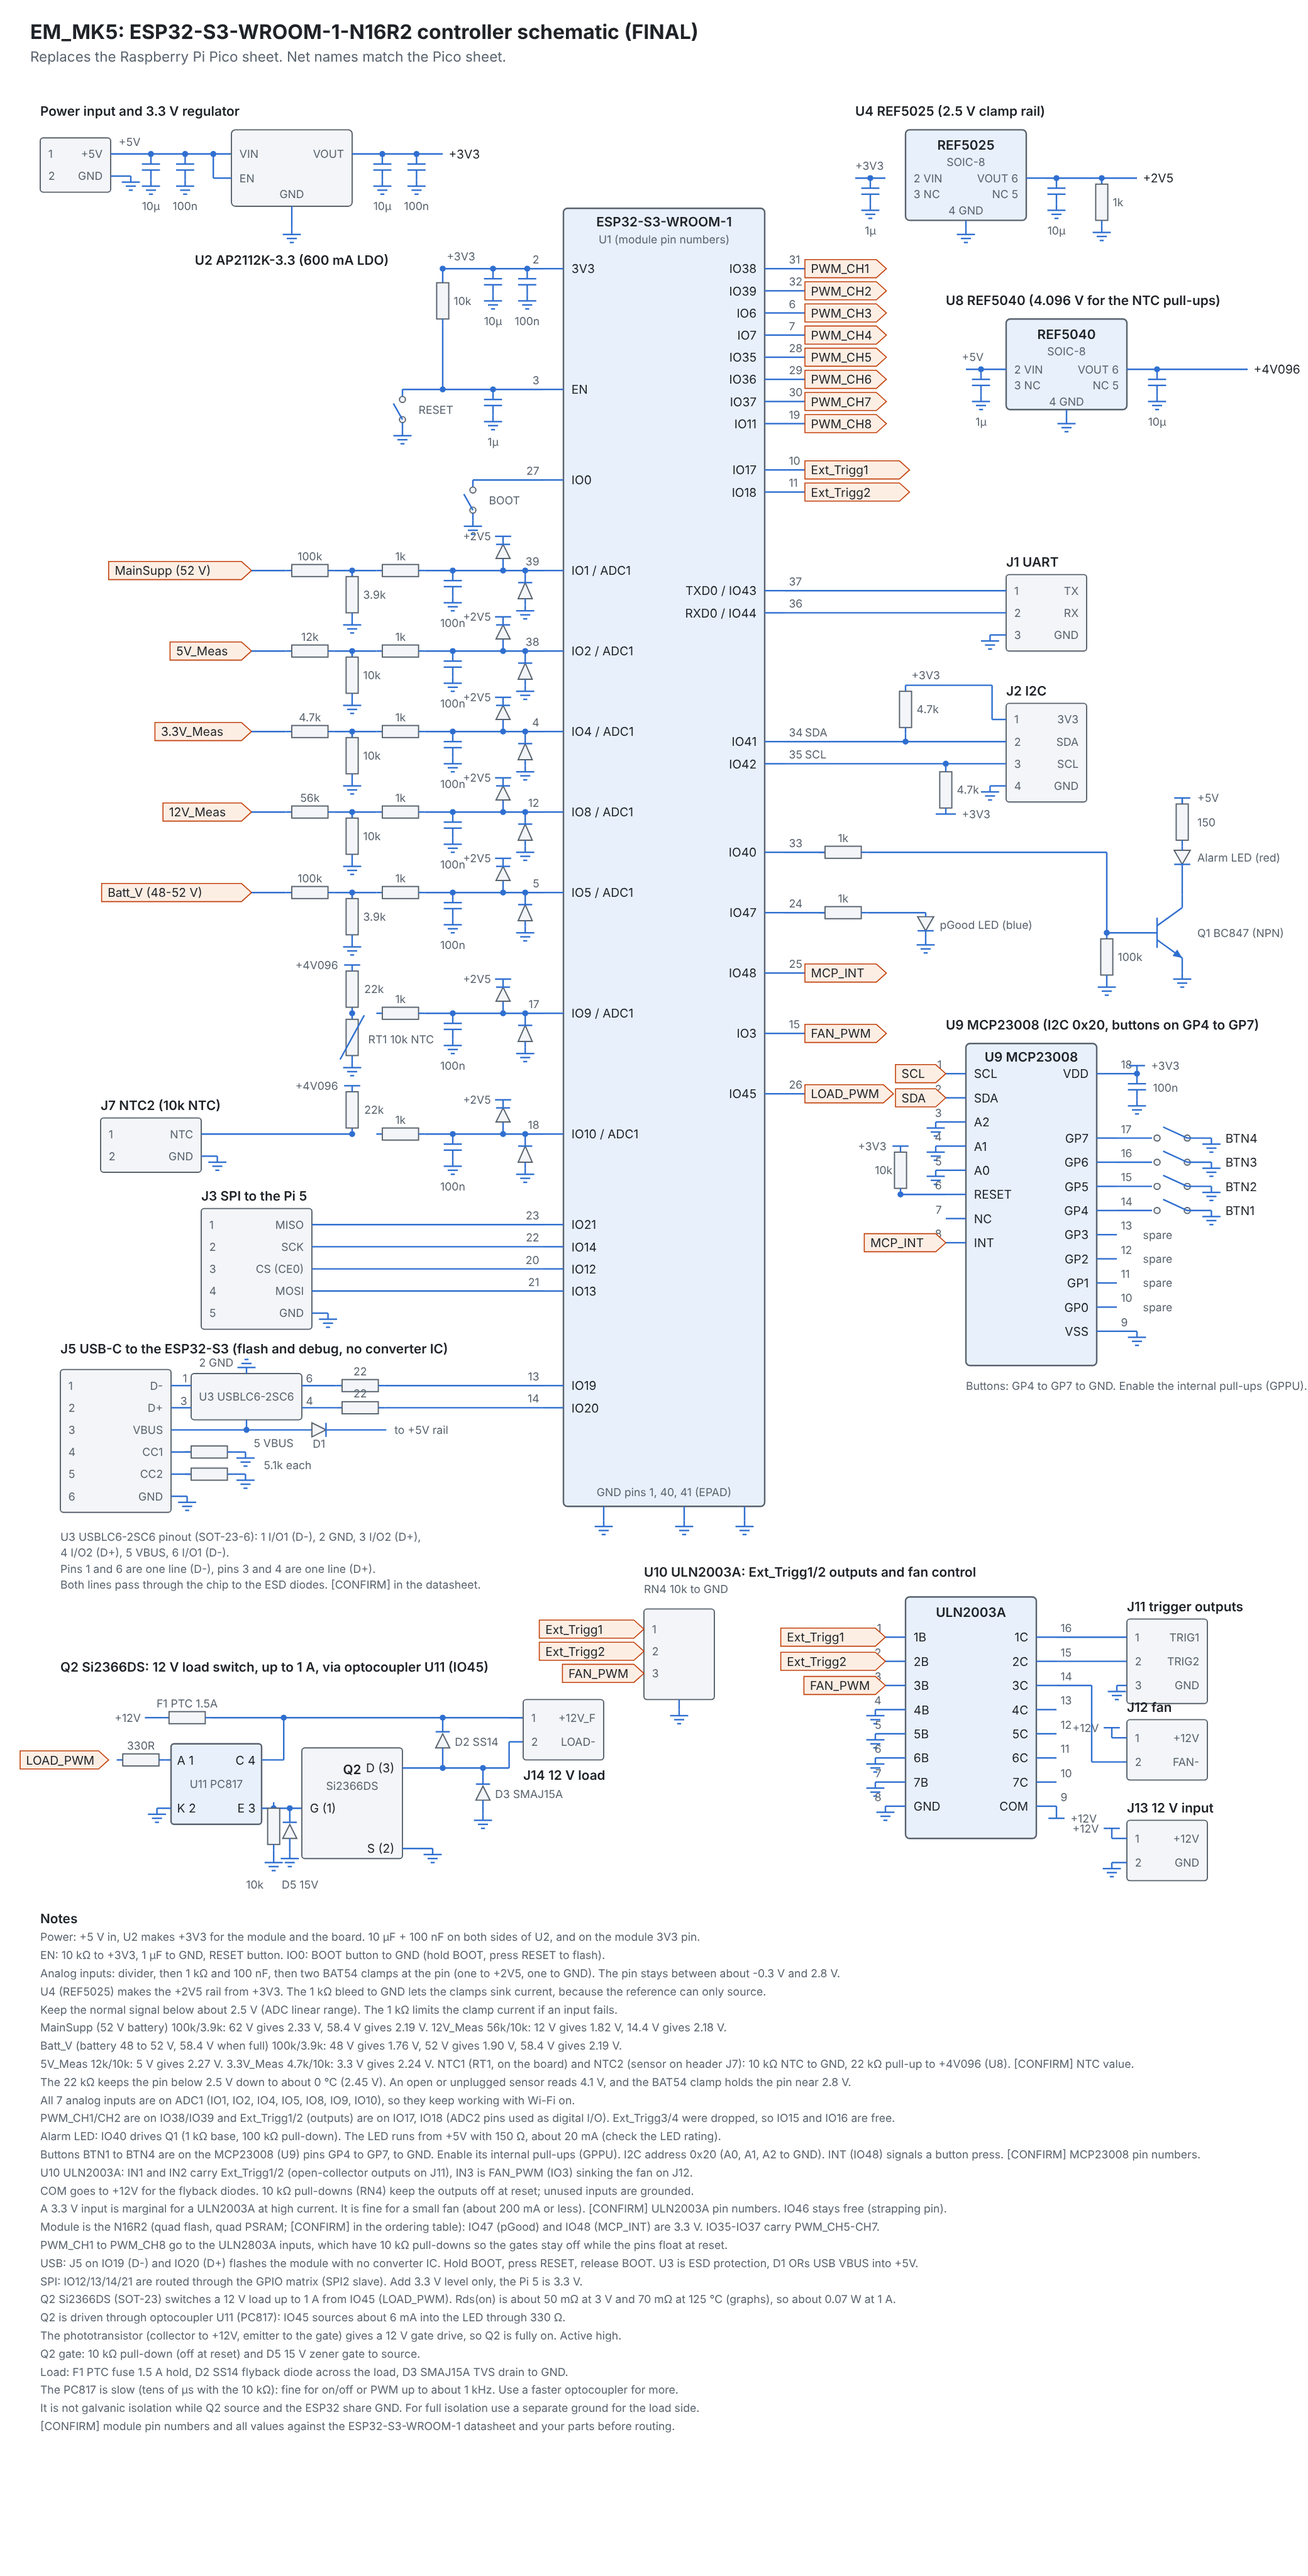
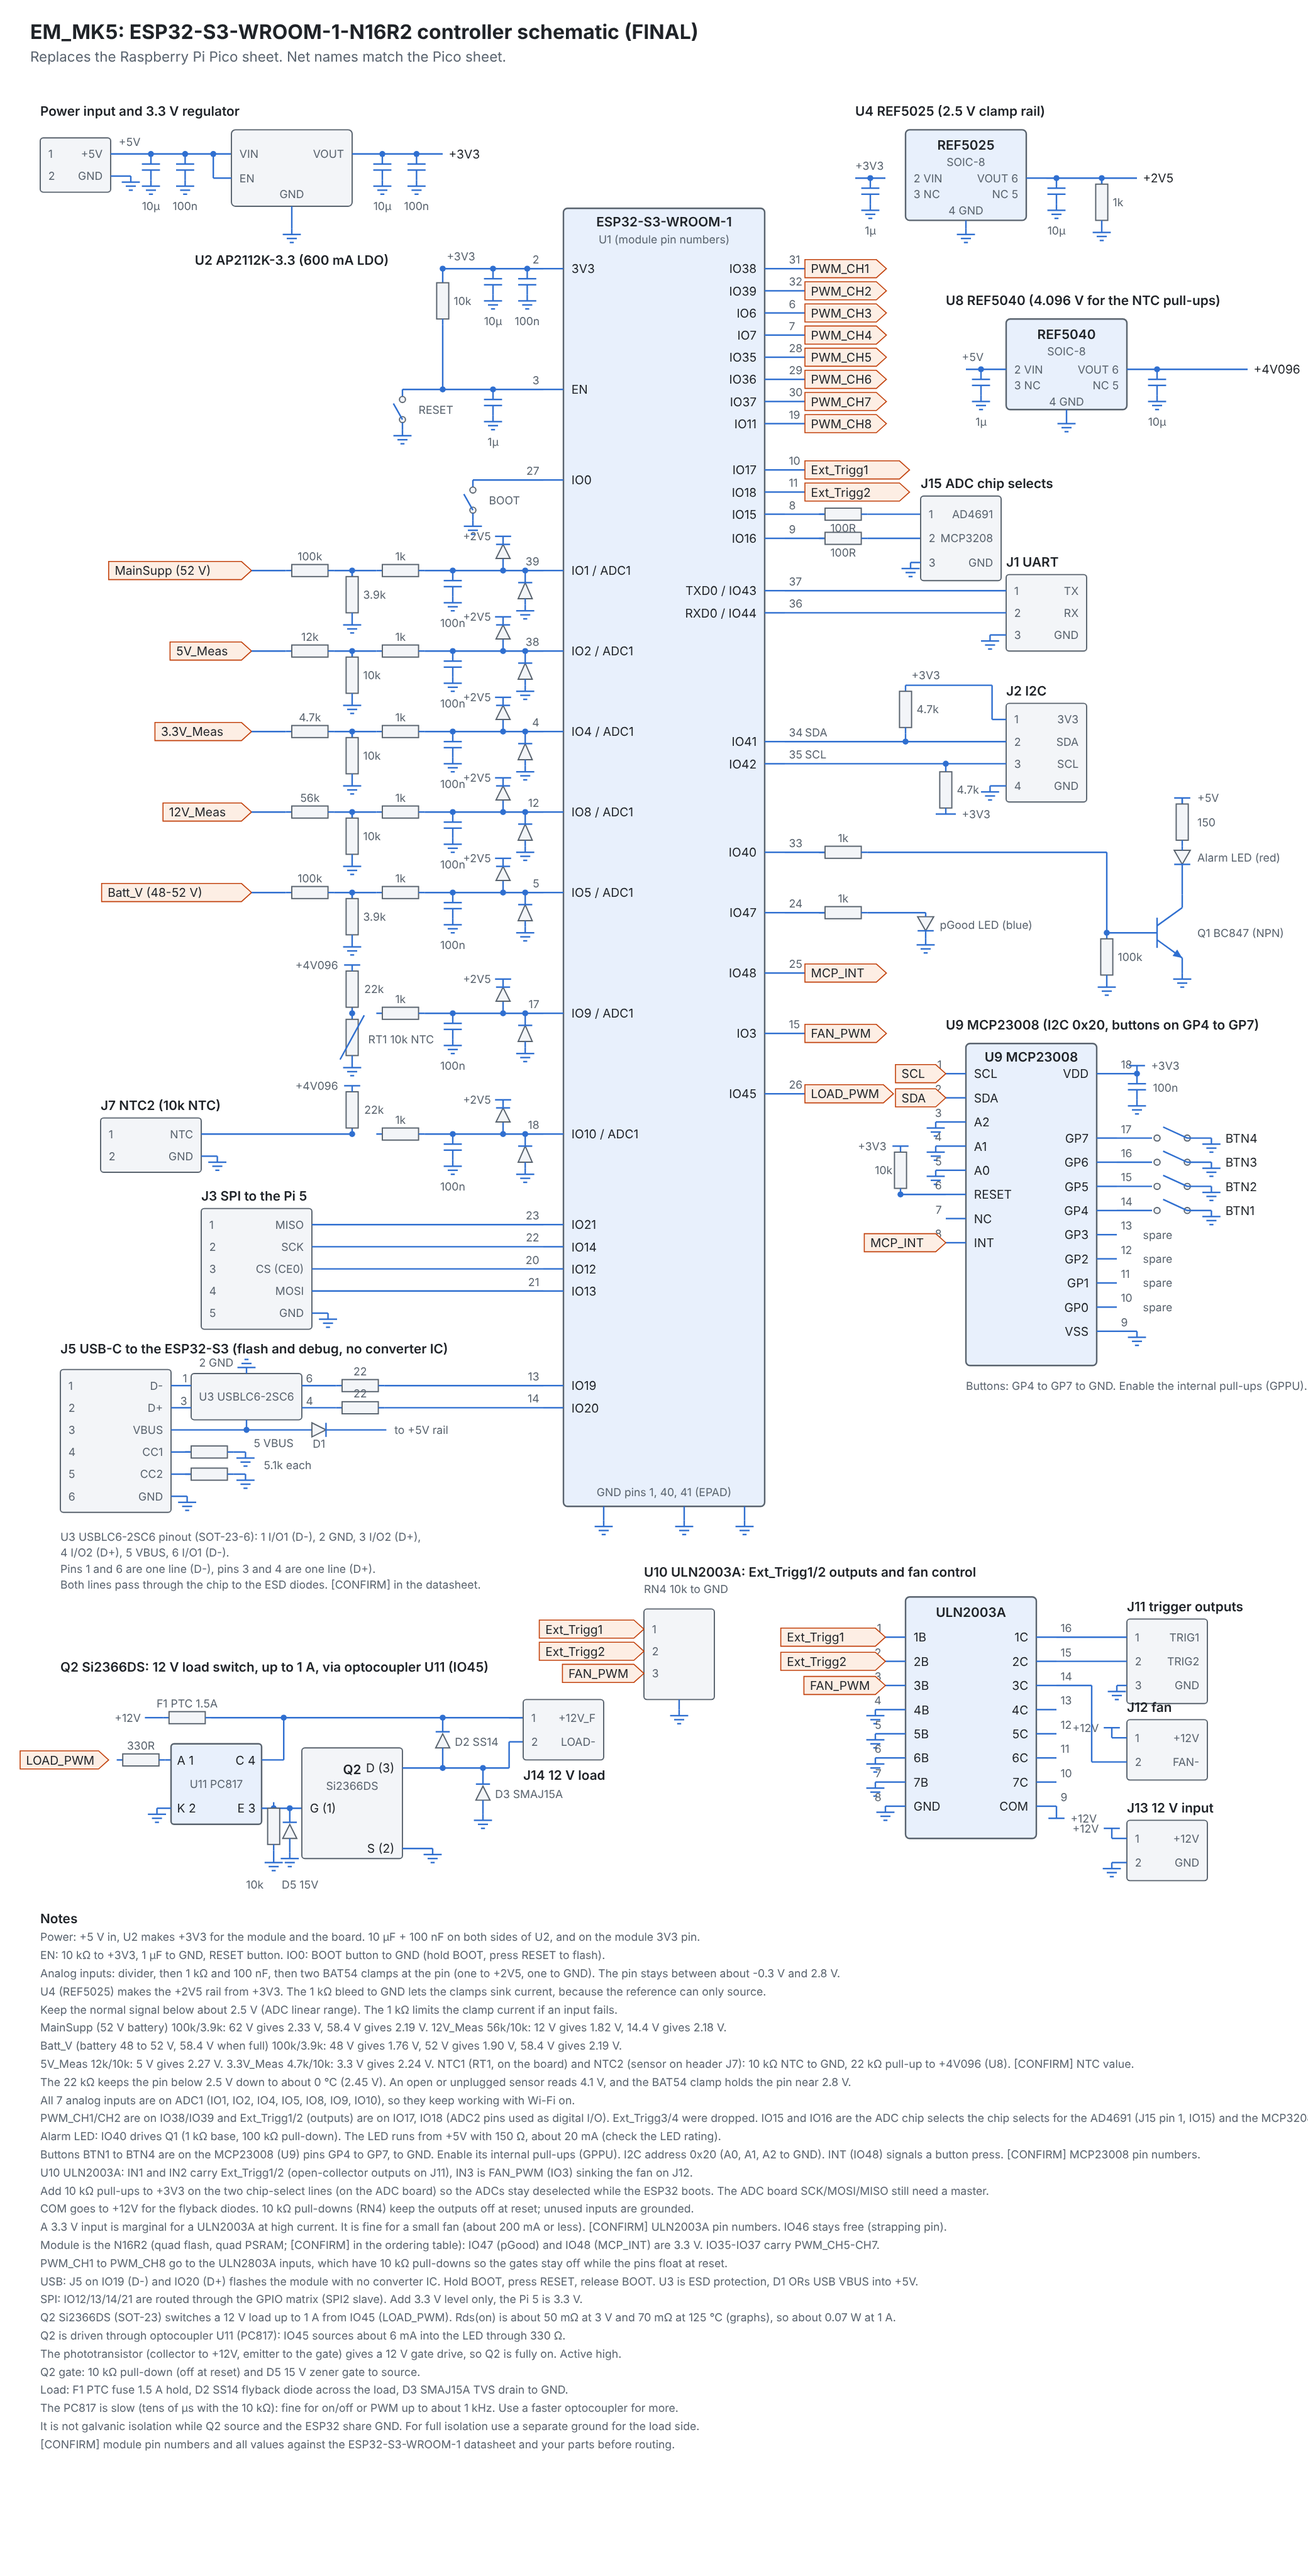
Final schematic: IO15/IO16 as ADC chip selects on J15
Claude-Session: https://claude.ai/code/session_0174MNEmDaTV8DPD2QnVHENo

Changed region(s): [[0.0312, 0.8438, 0.7188, 0.9688], [0.6875, 0.1875, 0.7812, 0.2188], [0.625, 0.1875, 0.6562, 0.2188]]

diff --git a/ESP32_S3_schematic_final.html b/ESP32_S3_schematic_final.html
@@ -712,6 +712,39 @@ svg{width:100%;max-width:1300px;height:auto;display:block;margin:0 auto}
 <line class="w" x1="780" y1="412" x2="800" y2="412"/>
 <polygon class="p" points="800,403 894,403 904,412 894,421 800,421"/>
 <text class="pt" x="806" y="412" text-anchor="start" dominant-baseline="central">Ext_Trigg2</text>
+<line class="w" x1="760" y1="434" x2="780" y2="434"/>
+<text class="t" x="752" y="434" text-anchor="end" dominant-baseline="central">IO15</text>
+<text class="s" x="784" y="425" text-anchor="start" dominant-baseline="central">8</text>
+<line class="w" x1="780" y1="434" x2="820" y2="434"/>
+<line class="w" x1="814" y1="434" x2="820" y2="434"/>
+<rect class="c" x="820" y="428" width="36" height="12"/>
+<line class="w" x1="856" y1="434" x2="862" y2="434"/>
+<text class="s" x="838" y="420" text-anchor="middle" dominant-baseline="central"></text>
+<text class="s" x="838" y="448" text-anchor="middle" dominant-baseline="central">100R</text>
+<line class="w" x1="862" y1="434" x2="915" y2="434"/>
+<line class="w" x1="760" y1="458" x2="780" y2="458"/>
+<text class="t" x="752" y="458" text-anchor="end" dominant-baseline="central">IO16</text>
+<text class="s" x="784" y="449" text-anchor="start" dominant-baseline="central">9</text>
+<line class="w" x1="780" y1="458" x2="820" y2="458"/>
+<line class="w" x1="814" y1="458" x2="820" y2="458"/>
+<rect class="c" x="820" y="452" width="36" height="12"/>
+<line class="w" x1="856" y1="458" x2="862" y2="458"/>
+<text class="s" x="838" y="444" text-anchor="middle" dominant-baseline="central"></text>
+<text class="s" x="838" y="472" text-anchor="middle" dominant-baseline="central">100R</text>
+<line class="w" x1="862" y1="458" x2="915" y2="458"/>
+<rect class="c" x="915" y="416" width="80" height="84" rx="3"/>
+<text class="th" x="915" y="404" text-anchor="start" dominant-baseline="central">J15 ADC chip selects</text>
+<text class="s" x="923" y="434" text-anchor="start" dominant-baseline="central">1</text>
+<text class="s" x="987" y="434" text-anchor="end" dominant-baseline="central">AD4691</text>
+<text class="s" x="923" y="458" text-anchor="start" dominant-baseline="central">2</text>
+<text class="s" x="987" y="458" text-anchor="end" dominant-baseline="central">MCP3208</text>
+<text class="s" x="923" y="482" text-anchor="start" dominant-baseline="central">3</text>
+<text class="s" x="987" y="482" text-anchor="end" dominant-baseline="central">GND</text>
+<line class="w" x1="915" y1="482" x2="905" y2="482"/>
+<line class="w" x1="905" y1="482" x2="905" y2="488"/>
+<line class="w" x1="896" y1="488" x2="914" y2="488"/>
+<line class="w" x1="900" y1="492" x2="910" y2="492"/>
+<line class="w" x1="903" y1="496" x2="907" y2="496"/>
 <rect class="c" x="1000" y="494" width="80" height="76" rx="3"/>
 <text class="th" x="1000" y="482" text-anchor="start" dominant-baseline="central">J1 UART</text>
 <text class="s" x="1008" y="510" text-anchor="start" dominant-baseline="central">1</text>
@@ -1340,21 +1373,22 @@ svg{width:100%;max-width:1300px;height:auto;display:block;margin:0 auto}
 <text class="s" x="40" y="1974" text-anchor="start" dominant-baseline="central">5V_Meas 12k/10k: 5 V gives 2.27 V. 3.3V_Meas 4.7k/10k: 3.3 V gives 2.24 V. NTC1 (RT1, on the board) and NTC2 (sensor on header J7): 10 kΩ NTC to GND, 22 kΩ pull-up to +4V096 (U8). [CONFIRM] NTC value.</text>
 <text class="s" x="40" y="1992" text-anchor="start" dominant-baseline="central">The 22 kΩ keeps the pin below 2.5 V down to about 0 °C (2.45 V). An open or unplugged sensor reads 4.1 V, and the BAT54 clamp holds the pin near 2.8 V.</text>
 <text class="s" x="40" y="2010" text-anchor="start" dominant-baseline="central">All 7 analog inputs are on ADC1 (IO1, IO2, IO4, IO5, IO8, IO9, IO10), so they keep working with Wi-Fi on.</text>
-<text class="s" x="40" y="2028" text-anchor="start" dominant-baseline="central">PWM_CH1/CH2 are on IO38/IO39 and Ext_Trigg1/2 (outputs) are on IO17, IO18 (ADC2 pins used as digital I/O). Ext_Trigg3/4 were dropped, so IO15 and IO16 are free.</text>
+<text class="s" x="40" y="2028" text-anchor="start" dominant-baseline="central">PWM_CH1/CH2 are on IO38/IO39 and Ext_Trigg1/2 (outputs) are on IO17, IO18 (ADC2 pins used as digital I/O). Ext_Trigg3/4 were dropped. IO15 and IO16 are the ADC chip selects the chip selects for the AD4691 (J15 pin 1, IO15) and the MCP3208 (J15 pin 2, IO16), 100 Ω in series.</text>
 <text class="s" x="40" y="2046" text-anchor="start" dominant-baseline="central">Alarm LED: IO40 drives Q1 (1 kΩ base, 100 kΩ pull-down). The LED runs from +5V with 150 Ω, about 20 mA (check the LED rating).</text>
 <text class="s" x="40" y="2064" text-anchor="start" dominant-baseline="central">Buttons BTN1 to BTN4 are on the MCP23008 (U9) pins GP4 to GP7, to GND. Enable its internal pull-ups (GPPU). I2C address 0x20 (A0, A1, A2 to GND). INT (IO48) signals a button press. [CONFIRM] MCP23008 pin numbers.</text>
 <text class="s" x="40" y="2082" text-anchor="start" dominant-baseline="central">U10 ULN2003A: IN1 and IN2 carry Ext_Trigg1/2 (open-collector outputs on J11), IN3 is FAN_PWM (IO3) sinking the fan on J12.</text>
-<text class="s" x="40" y="2100" text-anchor="start" dominant-baseline="central">COM goes to +12V for the flyback diodes. 10 kΩ pull-downs (RN4) keep the outputs off at reset; unused inputs are grounded.</text>
-<text class="s" x="40" y="2118" text-anchor="start" dominant-baseline="central">A 3.3 V input is marginal for a ULN2003A at high current. It is fine for a small fan (about 200 mA or less). [CONFIRM] ULN2003A pin numbers. IO46 stays free (strapping pin).</text>
-<text class="s" x="40" y="2136" text-anchor="start" dominant-baseline="central">Module is the N16R2 (quad flash, quad PSRAM; [CONFIRM] in the ordering table): IO47 (pGood) and IO48 (MCP_INT) are 3.3 V. IO35-IO37 carry PWM_CH5-CH7.</text>
-<text class="s" x="40" y="2154" text-anchor="start" dominant-baseline="central">PWM_CH1 to PWM_CH8 go to the ULN2803A inputs, which have 10 kΩ pull-downs so the gates stay off while the pins float at reset.</text>
-<text class="s" x="40" y="2172" text-anchor="start" dominant-baseline="central">USB: J5 on IO19 (D-) and IO20 (D+) flashes the module with no converter IC. Hold BOOT, press RESET, release BOOT. U3 is ESD protection, D1 ORs USB VBUS into +5V.</text>
-<text class="s" x="40" y="2190" text-anchor="start" dominant-baseline="central">SPI: IO12/13/14/21 are routed through the GPIO matrix (SPI2 slave). Add 3.3 V level only, the Pi 5 is 3.3 V.</text>
-<text class="s" x="40" y="2208" text-anchor="start" dominant-baseline="central">Q2 Si2366DS (SOT-23) switches a 12 V load up to 1 A from IO45 (LOAD_PWM). Rds(on) is about 50 mΩ at 3 V and 70 mΩ at 125 °C (graphs), so about 0.07 W at 1 A.</text>
-<text class="s" x="40" y="2226" text-anchor="start" dominant-baseline="central">Q2 is driven through optocoupler U11 (PC817): IO45 sources about 6 mA into the LED through 330 Ω.</text>
-<text class="s" x="40" y="2244" text-anchor="start" dominant-baseline="central">The phototransistor (collector to +12V, emitter to the gate) gives a 12 V gate drive, so Q2 is fully on. Active high.</text>
-<text class="s" x="40" y="2262" text-anchor="start" dominant-baseline="central">Q2 gate: 10 kΩ pull-down (off at reset) and D5 15 V zener gate to source.</text>
-<text class="s" x="40" y="2280" text-anchor="start" dominant-baseline="central">Load: F1 PTC fuse 1.5 A hold, D2 SS14 flyback diode across the load, D3 SMAJ15A TVS drain to GND.</text>
-<text class="s" x="40" y="2298" text-anchor="start" dominant-baseline="central">The PC817 is slow (tens of µs with the 10 kΩ): fine for on/off or PWM up to about 1 kHz. Use a faster optocoupler for more.</text>
-<text class="s" x="40" y="2316" text-anchor="start" dominant-baseline="central">It is not galvanic isolation while Q2 source and the ESP32 share GND. For full isolation use a separate ground for the load side.</text>
-<text class="s" x="40" y="2334" text-anchor="start" dominant-baseline="central">[CONFIRM] module pin numbers and all values against the ESP32-S3-WROOM-1 datasheet and your parts before routing.</text></svg></body></html>
+<text class="s" x="40" y="2100" text-anchor="start" dominant-baseline="central">Add 10 kΩ pull-ups to +3V3 on the two chip-select lines (on the ADC board) so the ADCs stay deselected while the ESP32 boots. The ADC board SCK/MOSI/MISO still need a master.</text>
+<text class="s" x="40" y="2118" text-anchor="start" dominant-baseline="central">COM goes to +12V for the flyback diodes. 10 kΩ pull-downs (RN4) keep the outputs off at reset; unused inputs are grounded.</text>
+<text class="s" x="40" y="2136" text-anchor="start" dominant-baseline="central">A 3.3 V input is marginal for a ULN2003A at high current. It is fine for a small fan (about 200 mA or less). [CONFIRM] ULN2003A pin numbers. IO46 stays free (strapping pin).</text>
+<text class="s" x="40" y="2154" text-anchor="start" dominant-baseline="central">Module is the N16R2 (quad flash, quad PSRAM; [CONFIRM] in the ordering table): IO47 (pGood) and IO48 (MCP_INT) are 3.3 V. IO35-IO37 carry PWM_CH5-CH7.</text>
+<text class="s" x="40" y="2172" text-anchor="start" dominant-baseline="central">PWM_CH1 to PWM_CH8 go to the ULN2803A inputs, which have 10 kΩ pull-downs so the gates stay off while the pins float at reset.</text>
+<text class="s" x="40" y="2190" text-anchor="start" dominant-baseline="central">USB: J5 on IO19 (D-) and IO20 (D+) flashes the module with no converter IC. Hold BOOT, press RESET, release BOOT. U3 is ESD protection, D1 ORs USB VBUS into +5V.</text>
+<text class="s" x="40" y="2208" text-anchor="start" dominant-baseline="central">SPI: IO12/13/14/21 are routed through the GPIO matrix (SPI2 slave). Add 3.3 V level only, the Pi 5 is 3.3 V.</text>
+<text class="s" x="40" y="2226" text-anchor="start" dominant-baseline="central">Q2 Si2366DS (SOT-23) switches a 12 V load up to 1 A from IO45 (LOAD_PWM). Rds(on) is about 50 mΩ at 3 V and 70 mΩ at 125 °C (graphs), so about 0.07 W at 1 A.</text>
+<text class="s" x="40" y="2244" text-anchor="start" dominant-baseline="central">Q2 is driven through optocoupler U11 (PC817): IO45 sources about 6 mA into the LED through 330 Ω.</text>
+<text class="s" x="40" y="2262" text-anchor="start" dominant-baseline="central">The phototransistor (collector to +12V, emitter to the gate) gives a 12 V gate drive, so Q2 is fully on. Active high.</text>
+<text class="s" x="40" y="2280" text-anchor="start" dominant-baseline="central">Q2 gate: 10 kΩ pull-down (off at reset) and D5 15 V zener gate to source.</text>
+<text class="s" x="40" y="2298" text-anchor="start" dominant-baseline="central">Load: F1 PTC fuse 1.5 A hold, D2 SS14 flyback diode across the load, D3 SMAJ15A TVS drain to GND.</text>
+<text class="s" x="40" y="2316" text-anchor="start" dominant-baseline="central">The PC817 is slow (tens of µs with the 10 kΩ): fine for on/off or PWM up to about 1 kHz. Use a faster optocoupler for more.</text>
+<text class="s" x="40" y="2334" text-anchor="start" dominant-baseline="central">It is not galvanic isolation while Q2 source and the ESP32 share GND. For full isolation use a separate ground for the load side.</text>
+<text class="s" x="40" y="2352" text-anchor="start" dominant-baseline="central">[CONFIRM] module pin numbers and all values against the ESP32-S3-WROOM-1 datasheet and your parts before routing.</text></svg></body></html>

diff --git a/ESP32_S3_pinout.md b/ESP32_S3_pinout.md
@@ -53,3 +53,4 @@ ESP32-S3-WROOM-1 module datasheet before routing the board.
 - IO45 pin protection: D4 BAT54S clamps the ESP32 side of the 100 Ω gate resistor to +3V3 and GND. D5 5.1 V zener (BZX84-C5V1) from gate to source protects the gate. Existing 100 kΩ gate pull-down kept.
 - Q2 gate is now driven through optocoupler U11 (PC817): IO45 -> 330 Ω -> LED (about 6 mA). Phototransistor: collector to +12V, emitter to the gate, with a 10 kΩ gate pull-down and a 15 V zener gate to source (12 V gate drive, active high). The earlier D4 BAT54S and 5.1 V zener were removed. The PC817 is slow, so PWM up to about 1 kHz. Not galvanic isolation while the grounds are shared.
 - Ext_Trigg3 and Ext_Trigg4 (inputs on IO15 and IO16) were dropped. IO15 (pin 8) and IO16 (pin 9) are free now, as is IO46. Only Ext_Trigg1/2 remain (IO17, IO18, outputs via U10).
+- IO15 (pin 8) and IO16 (pin 9) are now the ADC chip selects: IO15 = CS for the AD4691, IO16 = CS for the MCP3208. Each goes through 100 Ω to header J15 (pin 1 AD4691, pin 2 MCP3208, pin 3 GND). Add 10 kΩ pull-ups to +3V3 on the ADC board CS lines. Free pins left: IO46 only. Still open: which device is the SPI master for SCK/MOSI/MISO on the ADC board (the Pi 5 or the ESP32).
